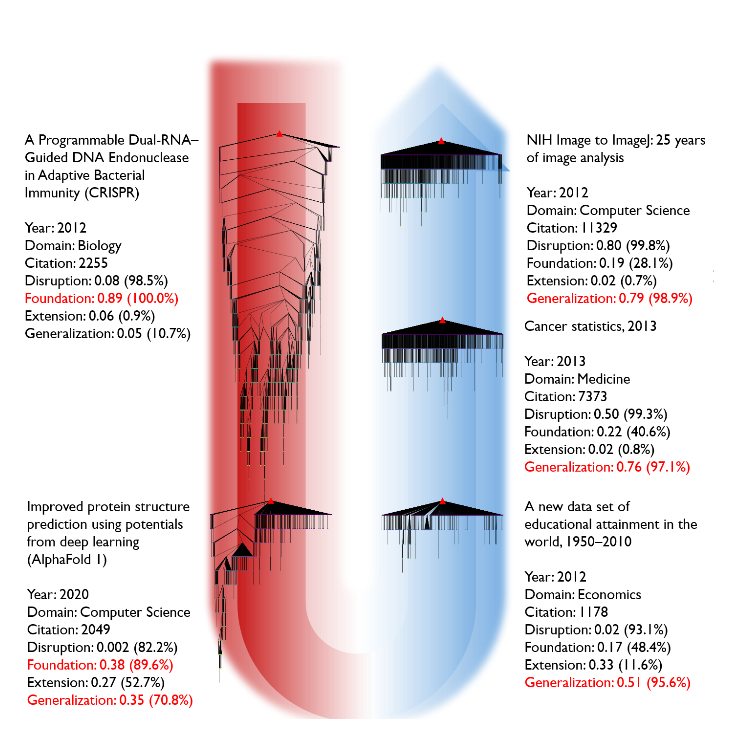
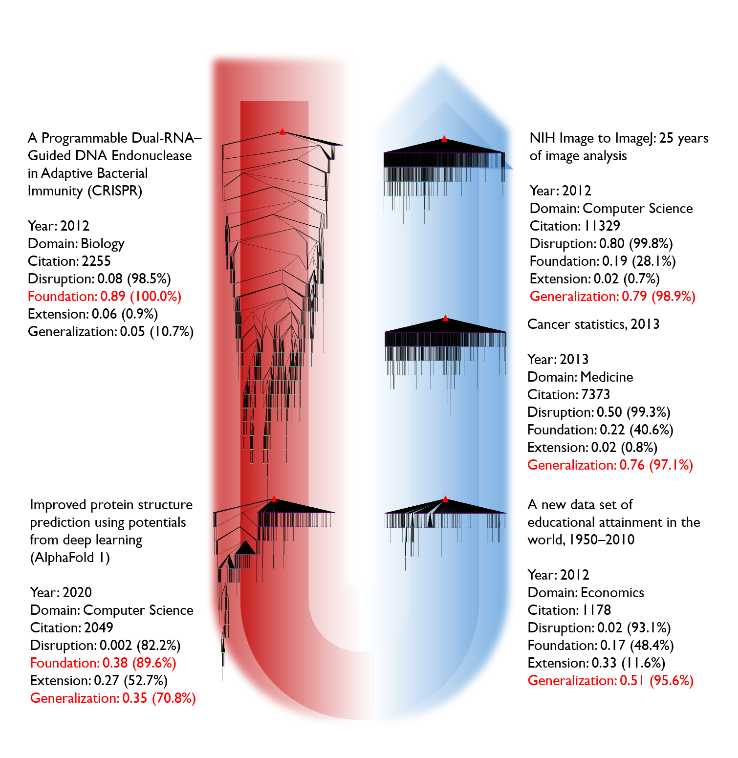
README: add review-vs-references comparison, re-crop Fig. 2a
Extended Data Fig. 4 shows the quantile distributions of D/E/F/G for
annual-review articles and their references.

Changed region(s): [[0.0312, 0.0619, 0.4675, 0.9906], [0.4986, 0.0929, 0.9661, 0.9906]]

diff --git a/README.md b/README.md
@@ -88,7 +88,7 @@ often about *using* the work or pointing to *future* work. Extension citations a
 The disruption index treats a paper as disruptive when later work cites it without citing its
 predecessors. The F / E / G indices separate two very different kinds of "disruptive" papers.
 
-<p align="center"><img src="docs/figures/fig2a_disruptive_examples.png" width="600" alt="Fig. 2a: highly disruptive papers from foundational to generalizational"></p>
+<p align="center"><img src="docs/figures/fig2a_disruptive_examples.png" width="680" alt="Fig. 2a: highly disruptive papers from foundational to generalizational"></p>
 
 **Fig. 2a.** Five highly disruptive papers (all above the 82nd percentile of disruption),
 arranged from most foundational to most generalizational, with their downstream citation trees.
@@ -96,6 +96,16 @@ CRISPR (left, top) has a deep, narrow tree: research keeps building on it genera
 generation (Foundation 0.89, 100th percentile). ImageJ (right, top) has a shallow, broad tree:
 it is used by many unconnected works (Generalization 0.79, 98.9th percentile). Values in
 parentheses are percentiles within the same year and domain.
+
+<p align="center"><img src="docs/figures/ed4_review_vs_references.png" width="80%" alt="Extended Data Fig. 4: review articles vs their references"></p>
+
+**Extended Data Fig. 4.** Review articles against the papers they cite, in Web of Science
+(18,367 reviews from "annual review" venues and their 1,319,022 references). Each index is
+converted to a quantile within publication year and domain, and the curves show the
+distribution of those quantiles. The cited references, which are presumably influential prior
+work, rank higher on **Foundation** (mean quantile 0.598 vs 0.461). Reviews, which are read and
+cited broadly, rank higher on **Generalization** (0.539 vs 0.423). The disruption index ranks the
+reviews *above* the work they review (0.474 vs 0.436).
 
 <p align="center"><img src="docs/figures/ed5a_disruption_comparison.png" width="75%" alt="Extended Data Fig. 5a: indices compared with disruption"></p>
 
